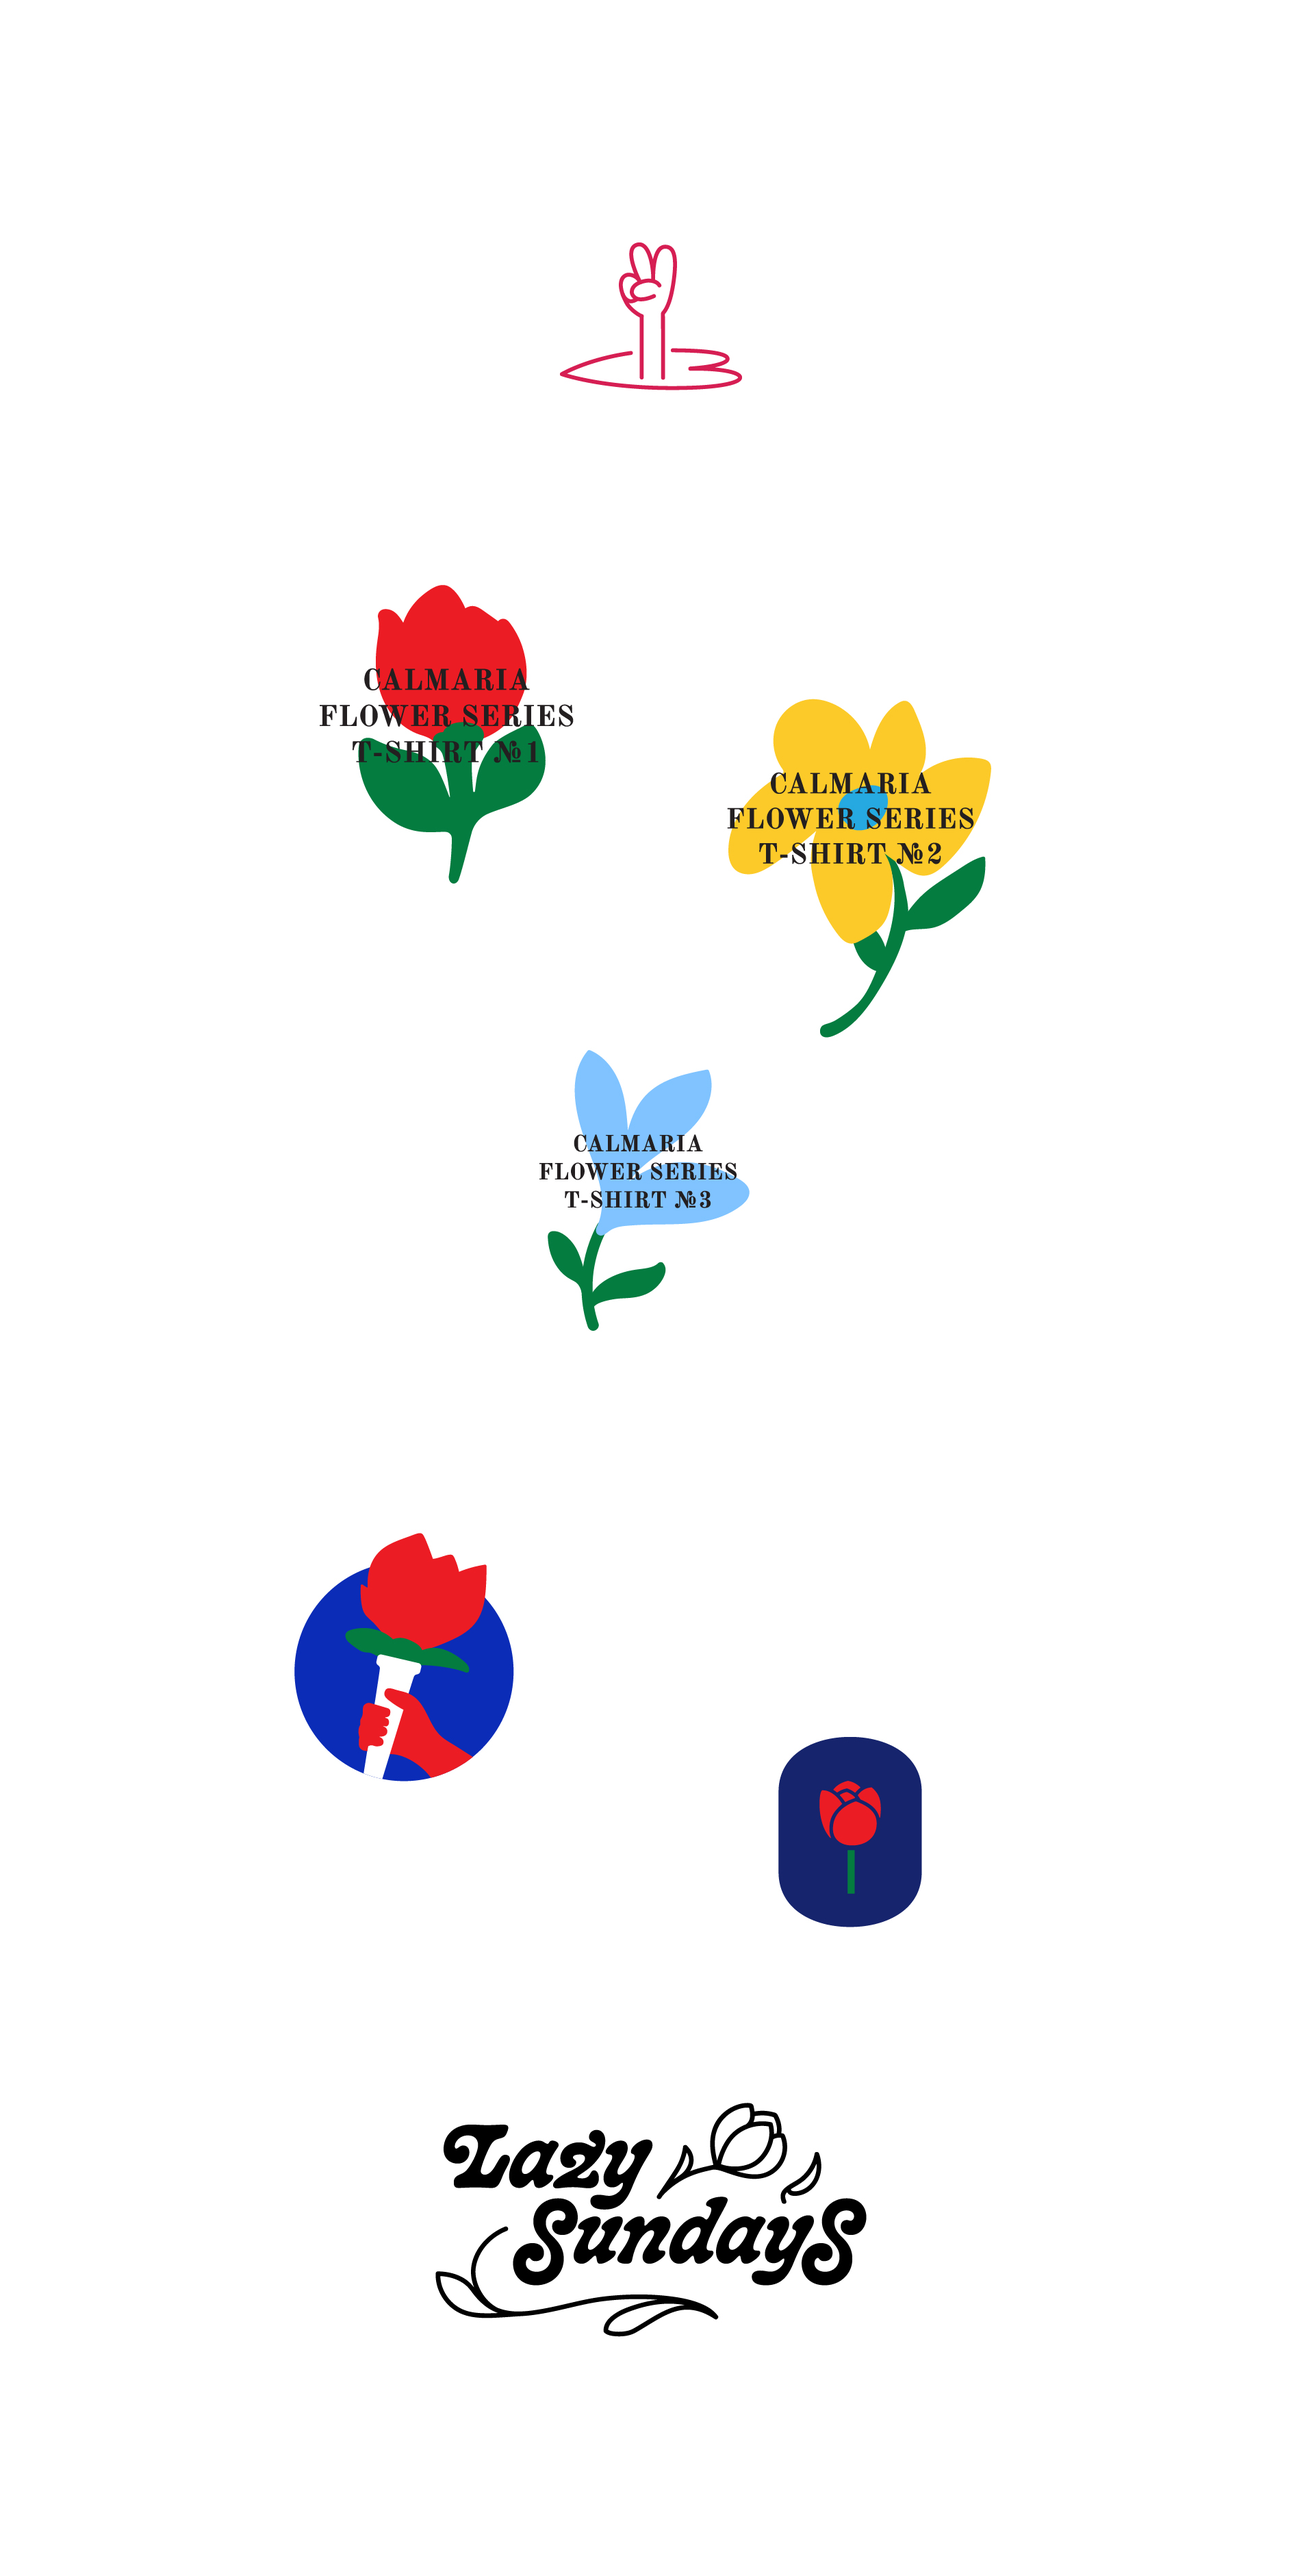
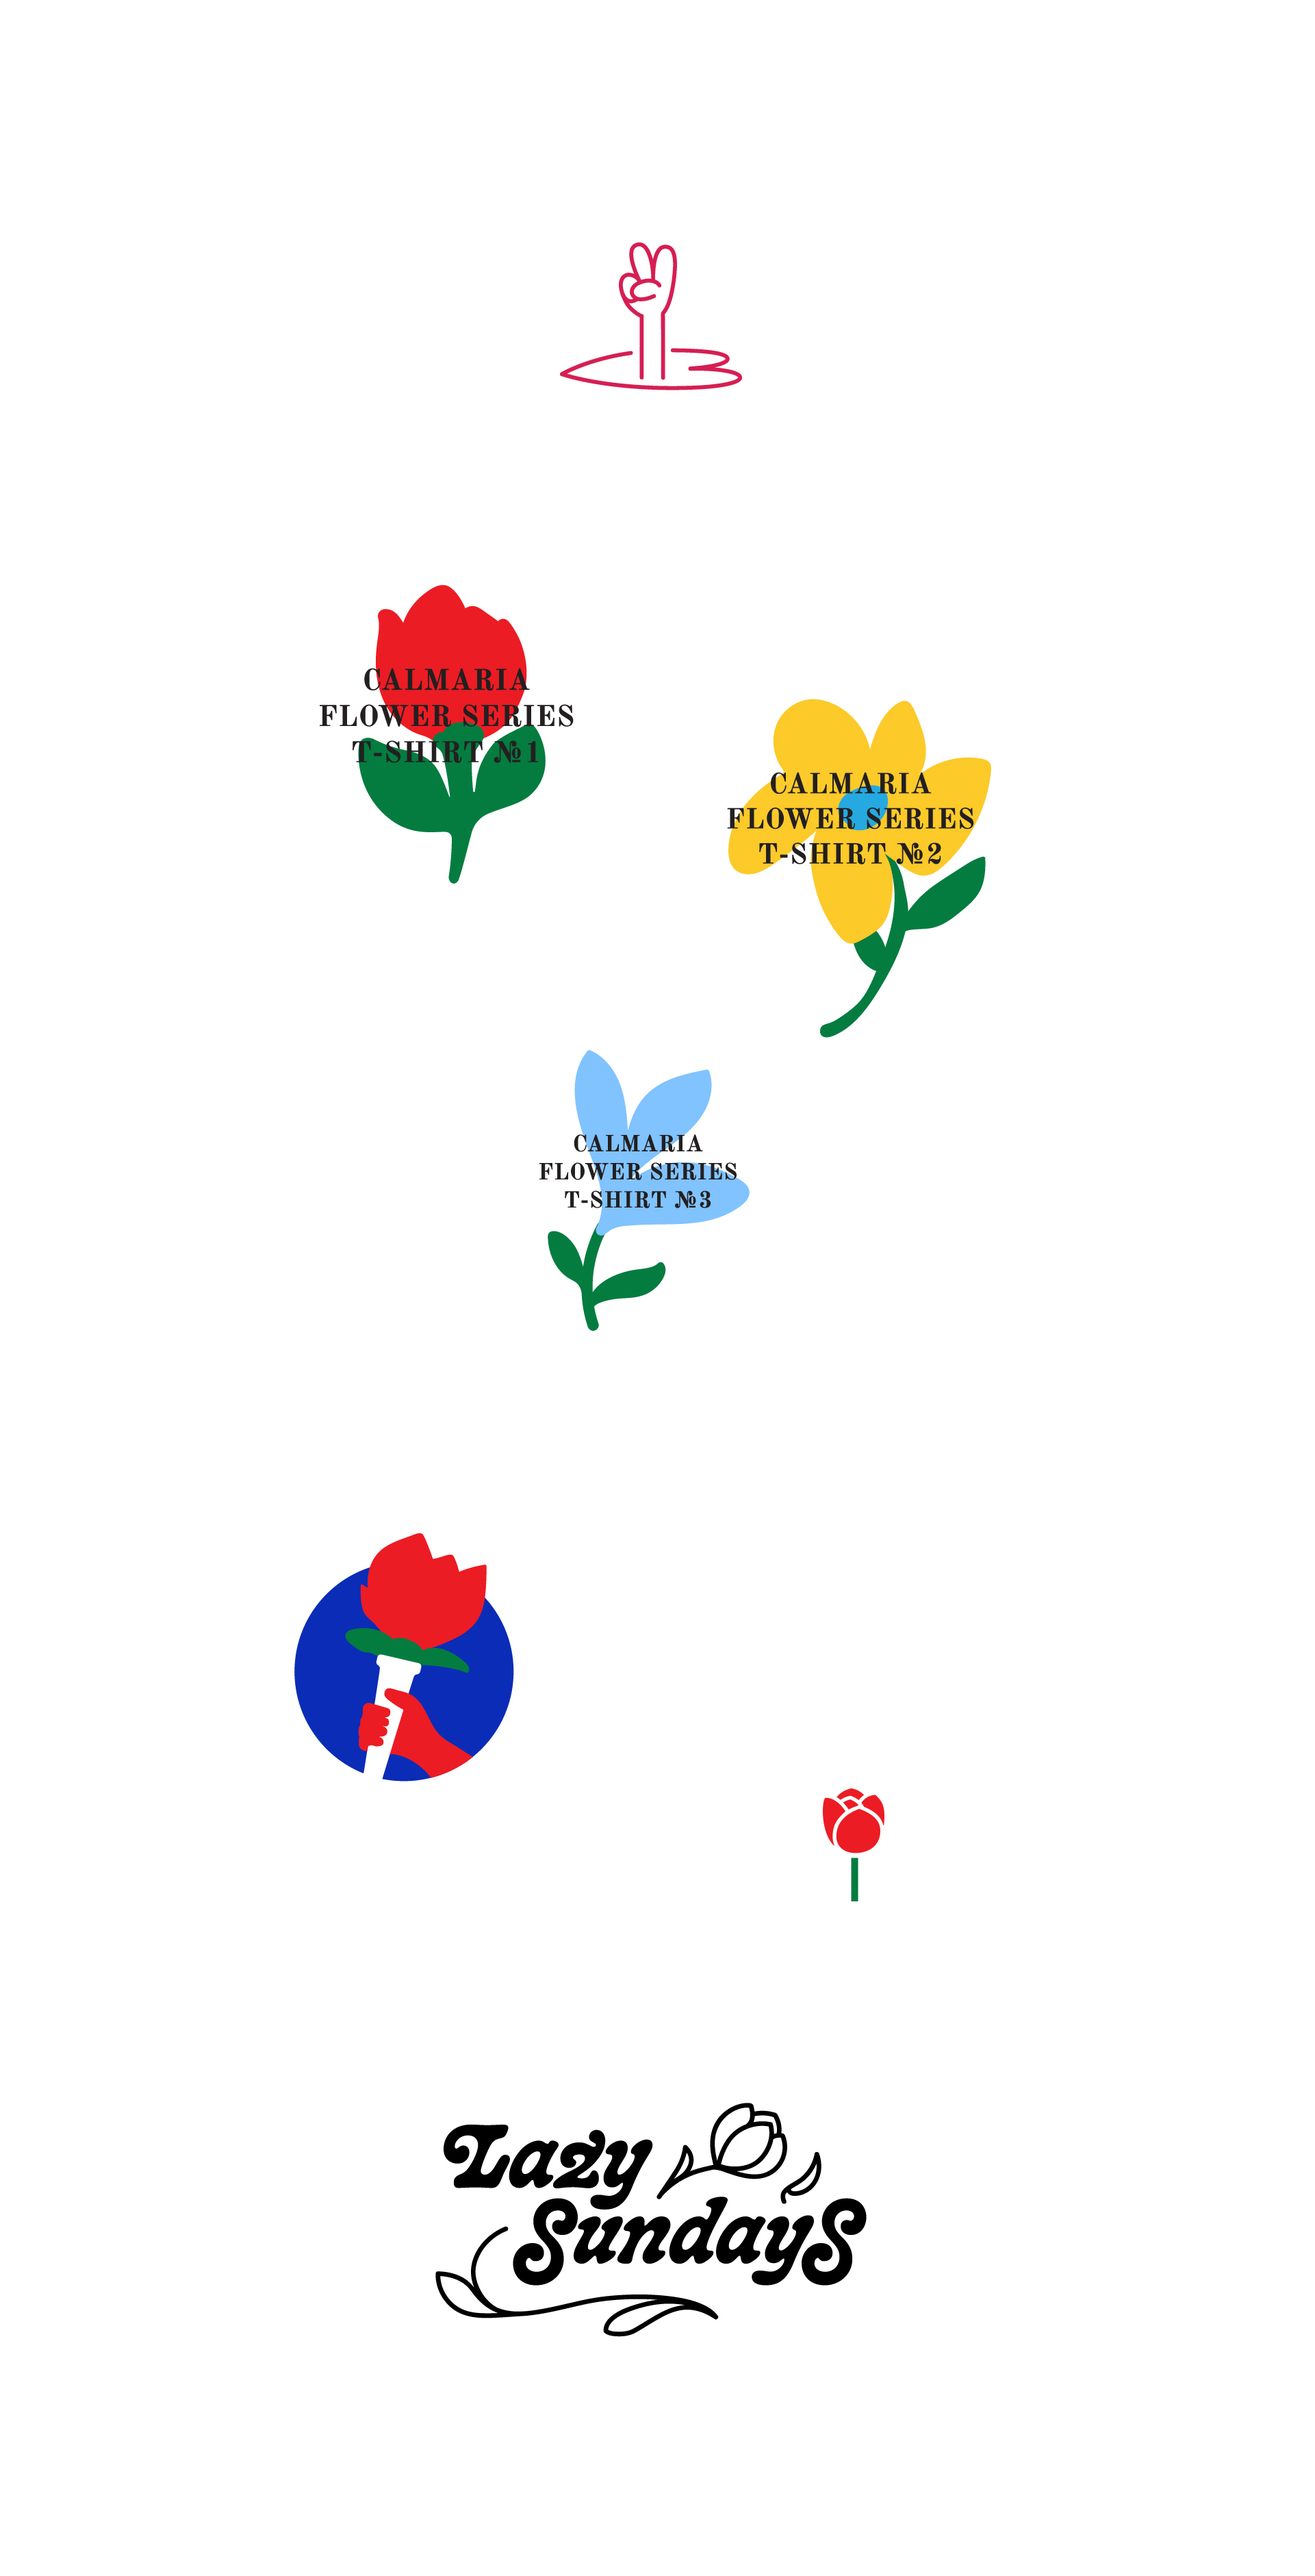
Updated Cosmos Gastrobar and 28 other files

Changed region(s): [[0.5934, 0.6533, 0.7184, 0.7466]]

diff --git a/index.md b/index.md
@@ -4,5 +4,5 @@ body_class: homepage
 layout: homepage
 ---
 
-Hi, my name is Jean Wojciechowski,<br /> I’m a Brazilian multidisciplinary graphic designer.You can check my work below and <a href="/wip"><u>sketches, experiments and work in progres s here.</u></a><br />I’m also on <a href="{{ site.links.behance }}">Behance</a>, <a href="{{ site.links.tumblr }}">Tumblr</a> and <a href="{{ site.links.arena }}">Arena</a>.<br />
+Hi, my name is Jean Wojciechowski,<br /> I’m a Brazilian multidisciplinary graphic designer. You can check my work below<br />and <a href="/wip"><u>sketches and work in progress here.</u></a><br />I’m also on <a href="{{ site.links.behance }}">Behance</a>, <a href="{{ site.links.tumblr }}">Tumblr</a> and <a href="{{ site.links.arena }}">Arena</a>.<br />
 Feel free to <a href="mailto:woj.jean@gmail.com"><u>reach out.</u></a>

diff --git a/_projects/massimo.md b/_projects/massimo.md
@@ -1,7 +1,7 @@
 ---
 title: Massimo
 published: false
-position: 7
+position: 8
 project_name: Massimo Typeface
 project_headline: The values of Massimo Studio
 project_brief: |-
